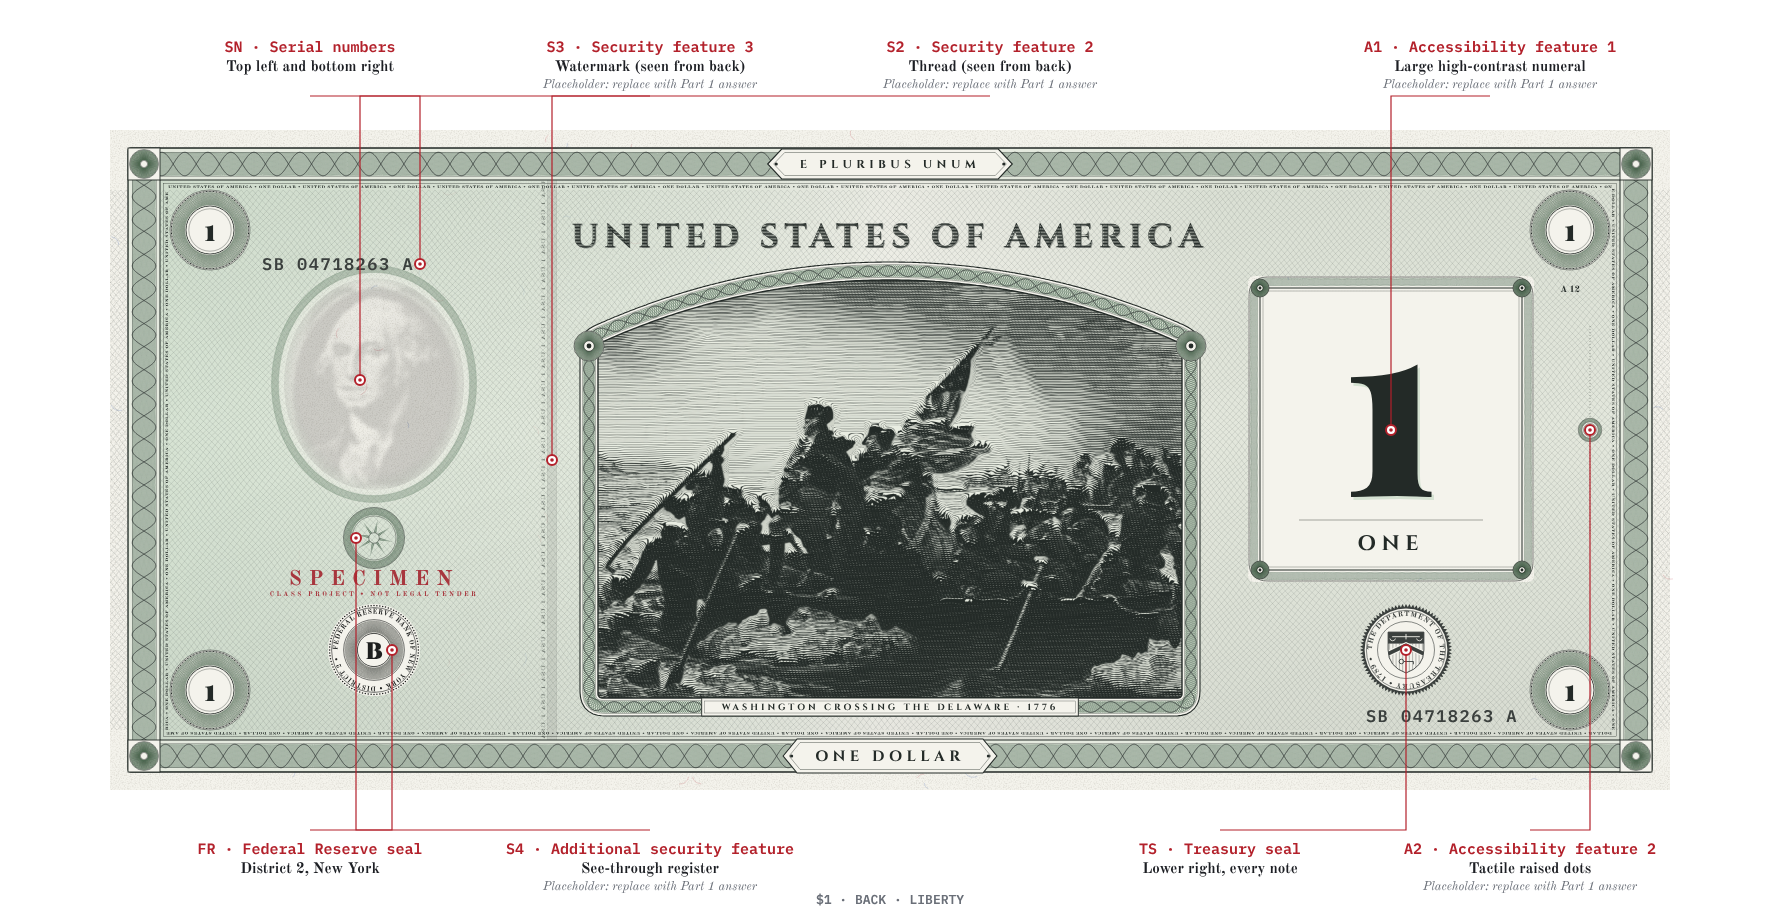
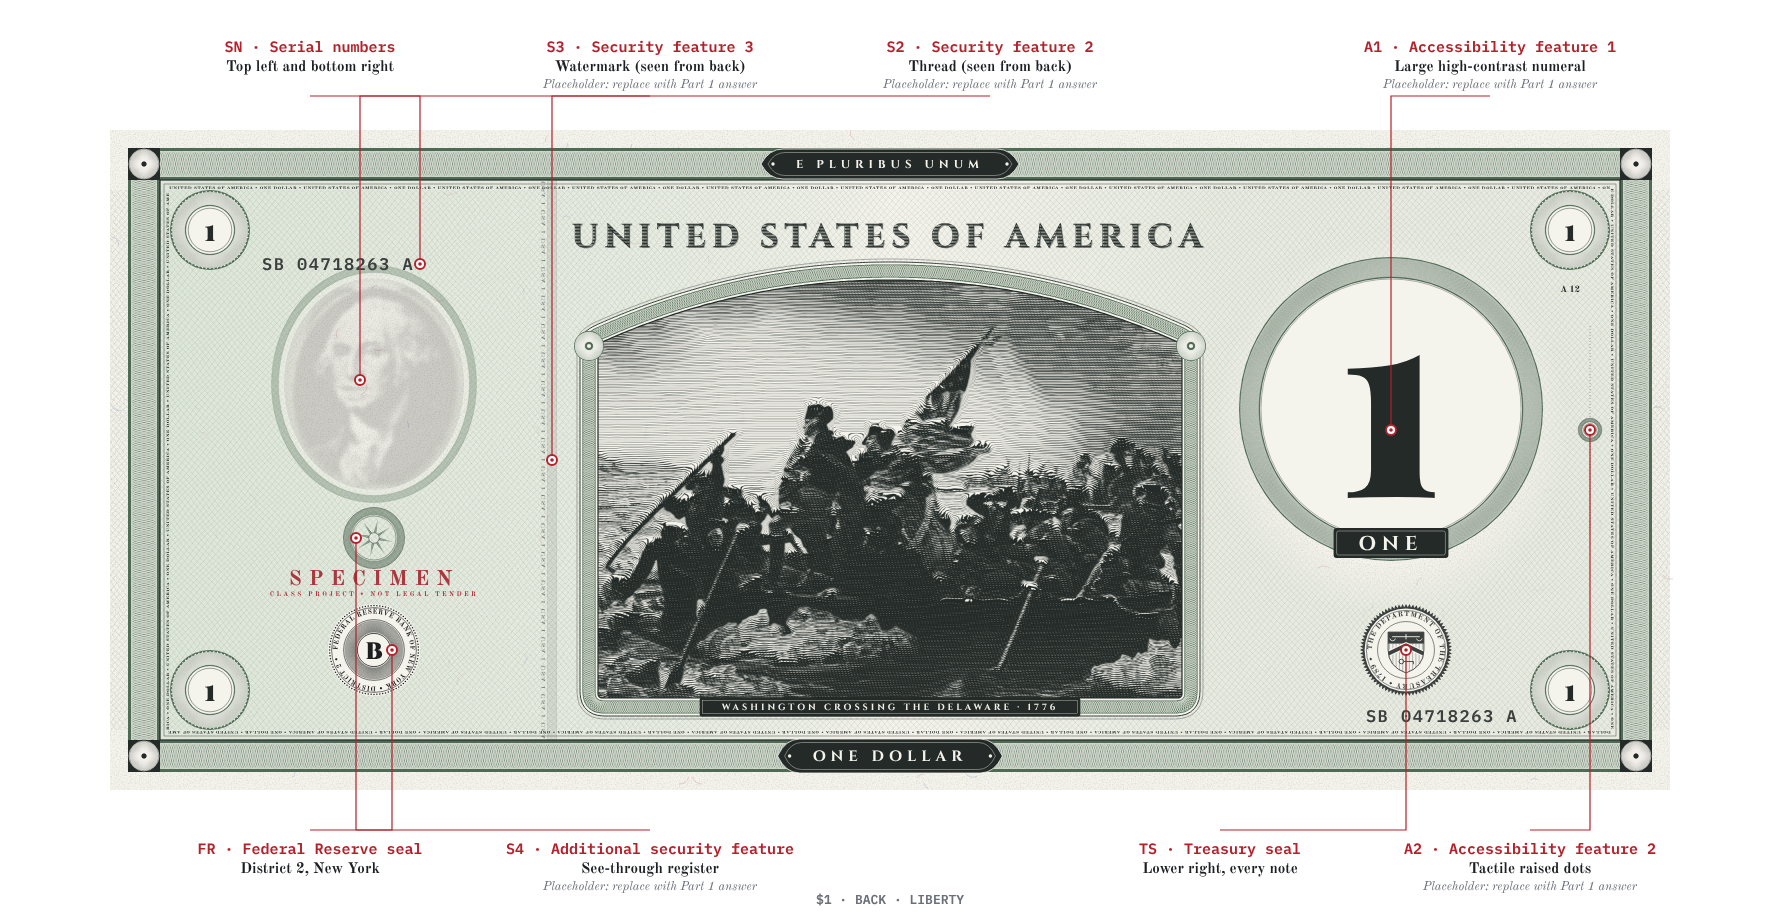
Restyle notes as white-line intaglio: dark lathe borders, rosette medallions, colour underprint; add DiCaprio $100 portrait
Claude-Session: https://claude.ai/code/session_015KBLhp8b1QN2JqUJfMzhqz

Changed region(s): [[0.0618, 0.1522, 0.927, 0.8522], [0.7416, 0.3957, 0.8034, 0.4261]]

diff --git a/generator/design/parts.js b/generator/design/parts.js
@@ -52,50 +52,51 @@ function paperLayer(n, id) {
 
 /* offset-printed tints and the denomination's fine-line security field, kept out of clear areas */
 function backgroundLayer(n, id, clearAreas) {
-  const pat = PATTERNS[n.pattern](60, 60, W - 60, H - 60, { stroke: n.secondary, sw: .3, ...n.patternOpts });
+  // offset-printed underprint: a faint colour wash and the denomination's fine-line pattern in its light ink
+  const pat = PATTERNS[n.pattern](60, 60, W - 60, H - 60, { stroke: n.primary, sw: .26, ...n.patternOpts });
   const holes = clearAreas.map(a => a.type === "ellipse"
     ? `<ellipse cx="${a.cx}" cy="${a.cy}" rx="${a.rx * 1.18}" ry="${a.ry * 1.18}" fill="url(#${id}-wmfade)"/>`
-    : `<rect x="${a.x}" y="${a.y}" width="${a.w}" height="${a.h}" rx="6" fill="#000"/>`).join("");
+    : `<ellipse cx="${a.x + a.w / 2}" cy="${a.y + a.h / 2}" rx="${a.w * .62}" ry="${a.h * .62}" fill="url(#${id}-wmfade)"/>`).join("");
   return `<mask id="${id}-bgmask"><rect width="${W}" height="${H}" fill="#fff"/>${holes}</mask>
     <g mask="url(#${id}-bgmask)">
-      <rect x="18" y="18" width="${W - 36}" height="${H - 36}" fill="url(#${id}-iris)"/>
-      <rect x="18" y="18" width="${W - 36}" height="${H - 36}" fill="url(#${id}-vfade)"/>
+      <rect x="50" y="50" width="${W - 100}" height="${H - 100}" fill="url(#${id}-iris)" opacity=".7"/>
       <g opacity=".42">${pat}</g>
     </g>`;
 }
 
 function border(n, id, topWord, bottomWord) {
+  // white-line border: the band is solid plate ink with the lathe pattern cut through it in paper colour
   const band = rectPts(34, 34, W - 34, H - 34, 10);
   const micro = `UNITED STATES OF AMERICA • ${n.words} • `.repeat(30);
-  let o = `<rect x="18" y="18" width="${W - 36}" height="${H - 36}" rx="3" fill="none" stroke="${n.plate}" stroke-width="1.3"/>`;
-  o += `<path d="${poly(rectPts(19, 19, W - 19, H - 19, 3), true)}M50 50H${W - 50}V${H - 50}H50Z" fill="${n.paper}" fill-rule="evenodd"/>`;
-  o += `<path d="${poly(rectPts(19, 19, W - 19, H - 19, 3), true)}M50 50H${W - 50}V${H - 50}H50Z" fill="${n.tint1}" fill-rule="evenodd" opacity=".5"/>`;
-  o += latheBand(band, { w: 25, wave: 15, count: 7, stroke: n.primary, sw: .26 });
-  o += latheBand(band, { w: 25, wave: 46, count: 2, stroke: n.secondary, sw: .45 });
-  o += `<path d="${poly(rectPts(22.5, 22.5, W - 22.5, H - 22.5, 1), true)}M46.5 46.5H${W - 46.5}V${H - 46.5}H46.5Z" fill="none" stroke="${n.plate}" stroke-width=".3"/>`;
-  o += `<rect x="50" y="50" width="${W - 100}" height="${H - 100}" fill="none" stroke="${n.plate}" stroke-width="1"/>`;
-  o += `<rect x="53.6" y="53.6" width="${W - 107.2}" height="${H - 107.2}" fill="none" stroke="${n.plate}" stroke-width=".35"/>`;
-  o += `<path id="${id}-mp" d="M58 58H${W - 58}V${H - 58}H58Z" fill="none"/>
-    <text font-family="${FONT.small}" font-size="3.4" font-weight="700" fill="${n.plate}" letter-spacing=".2"><textPath href="#${id}-mp" textLength="${2 * (W - 116) + 2 * (H - 116) - 4}" lengthAdjust="spacingAndGlyphs">${micro.slice(0, 1180)}</textPath></text>`;
-  // corner blocks
+  const ring = `${poly(rectPts(18, 18, W - 18, H - 18, 3), true)}M50 50H${W - 50}V${H - 50}H50Z`;
+  let o = `<path d="${ring}" fill="${n.primary}" fill-rule="evenodd"/>`;
+  o += latheBand(band, { w: 26, wave: 14, count: 8, stroke: n.paper, sw: .42 });
+  o += `<g opacity=".55">${latheBand(band, { w: 26, wave: 52, count: 3, stroke: n.tint1, sw: .6 })}</g>`;
+  o += `<path d="${poly(rectPts(21.5, 21.5, W - 21.5, H - 21.5, 1), true)}M46.5 46.5H${W - 46.5}V${H - 46.5}H46.5Z" fill="none" stroke="${n.paper}" stroke-width=".7"/>`;
+  o += `<rect x="50" y="50" width="${W - 100}" height="${H - 100}" fill="none" stroke="${n.plate}" stroke-width="1.2"/>`;
+  o += `<rect x="54" y="54" width="${W - 108}" height="${H - 108}" fill="none" stroke="${n.plate}" stroke-width=".4"/>`;
+  o += `<path id="${id}-mp" d="M59 59H${W - 59}V${H - 59}H59Z" fill="none"/>
+    <text font-family="${FONT.small}" font-size="3.4" font-weight="700" fill="${n.plate}" letter-spacing=".2"><textPath href="#${id}-mp" textLength="${2 * (W - 118) + 2 * (H - 118) - 4}" lengthAdjust="spacingAndGlyphs">${micro.slice(0, 1180)}</textPath></text>`;
   for (const [x, y] of [[18, 18], [W - 50, 18], [18, H - 50], [W - 50, H - 50]]) {
-    o += `<rect x="${x}" y="${y}" width="32" height="32" fill="${n.paper}" stroke="${n.plate}" stroke-width=".9"/>`;
-    o += rosetteRing(x + 16, y + 16, 4, 14, { lobes: 12, count: 8, stroke: n.primary, sw: .28 });
-    o += rings(x + 16, y + 16, [14.5, 3.6], n.plate, .5);
+    o += `<rect x="${x}" y="${y}" width="32" height="32" fill="${n.plate}"/>`;
+    o += rosetteRing(x + 16, y + 16, 3, 14.5, { lobes: 12, count: 8, stroke: n.paper, sw: .38 });
+    o += rings(x + 16, y + 16, [15, 3], n.paper, .6);
   }
-  o += cartouche(n, W / 2, 34, topWord, `600 11.5px ${FONT.caps}`, 4.5, 15);
-  o += cartouche(n, W / 2, H - 34, bottomWord, `700 15px ${FONT.caps}`, 4.5, 17);
+  o += cartouche(n, W / 2, 34, topWord, `700 11.5px ${FONT.caps}`, 5, 15);
+  o += cartouche(n, W / 2, H - 34, bottomWord, `700 15px ${FONT.caps}`, 5, 17);
   return o;
 }
+
 function cartouche(n, cx, cy, text, font, ls, h) {
-  const w = measure(text, font, ls) + 64;
+  // a darker tablet let into the border, lettered in paper colour
+  const w = measure(text, font, ls) + 70;
   const x0 = cx - w / 2, x1 = cx + w / 2;
-  const shape = `M${f(x0)} ${cy}L${f(x0 + 14)} ${cy - h}H${f(x1 - 14)}L${f(x1)} ${cy}L${f(x1 - 14)} ${cy + h}H${f(x0 + 14)}Z`;
-  const inner = `M${f(x0 + 6)} ${cy}L${f(x0 + 17)} ${cy - h + 3.5}H${f(x1 - 17)}L${f(x1 - 6)} ${cy}L${f(x1 - 17)} ${cy + h - 3.5}H${f(x0 + 17)}Z`;
-  return `<path d="${shape}" fill="${n.paper}" stroke="${n.plate}" stroke-width="1.1"/>
-    <path d="${inner}" fill="none" stroke="${n.plate}" stroke-width=".4"/>
-    ${beads(x0 + 8.5, cy, 0, 1, 1.6, n.plate)}${beads(x1 - 8.5, cy, 0, 1, 1.6, n.plate)}
-    <text x="${cx}" y="${cy + parseFloat(font.match(/(\d+(\.\d+)?)px/)[1]) * .36}" text-anchor="middle" style="font:${font};letter-spacing:${ls}px" fill="${n.plate}">${esc(text)}</text>`;
+  const shape = `M${f(x0)} ${cy}Q${f(x0 + 8)} ${cy - h} ${f(x0 + 22)} ${cy - h}H${f(x1 - 22)}Q${f(x1 - 8)} ${cy - h} ${f(x1)} ${cy}Q${f(x1 - 8)} ${cy + h} ${f(x1 - 22)} ${cy + h}H${f(x0 + 22)}Q${f(x0 + 8)} ${cy + h} ${f(x0)} ${cy}Z`;
+  const inner = `M${f(x0 + 7)} ${cy}Q${f(x0 + 13)} ${cy - h + 3.5} ${f(x0 + 24)} ${cy - h + 3.5}H${f(x1 - 24)}Q${f(x1 - 13)} ${cy - h + 3.5} ${f(x1 - 7)} ${cy}Q${f(x1 - 13)} ${cy + h - 3.5} ${f(x1 - 24)} ${cy + h - 3.5}H${f(x0 + 24)}Q${f(x0 + 13)} ${cy + h - 3.5} ${f(x0 + 7)} ${cy}Z`;
+  return `<path d="${shape}" fill="${n.plate}" stroke="${n.paper}" stroke-width=".8"/>
+    <path d="${inner}" fill="none" stroke="${n.paper}" stroke-width=".4"/>
+    ${beads(x0 + 12, cy, 0, 1, 1.7, n.paper)}${beads(x1 - 12, cy, 0, 1, 1.7, n.paper)}
+    <text x="${cx}" y="${cy + parseFloat(font.match(/(\d+(\.\d+)?)px/)[1]) * .36}" text-anchor="middle" style="font:${font};letter-spacing:${ls}px" fill="${n.paper}">${esc(text)}</text>`;
 }
 
 /* shaded engraved lettering: line-hatched fill, hairline outline, offset shadow */
@@ -117,57 +118,58 @@ function measure(text, font, ls = 0) {
 function numeralSize(s, box) { return s.length === 1 ? box * 1.25 : s.length === 2 ? box * .95 : box * .68; }
 
 function cornerMedallion(n, cx, cy, r) {
+  // dark white-line rosette ring round a light counter carrying the numeral
   const s = String(n.v);
-  return `<circle cx="${cx}" cy="${cy}" r="${r}" fill="${n.paper}"/>
-    ${rosetteRing(cx, cy, r * .62, r * .95, { lobes: 22, count: 8, stroke: n.primary, sw: .24 })}
-    ${beads(cx, cy, r - 1.4, 72, .55, n.plate)}
-    ${rings(cx, cy, [r, r * .97], n.plate, .5)}${rings(cx, cy, [r * .6], n.plate, .9)}
-    <circle cx="${cx}" cy="${cy}" r="${r * .58}" fill="${n.paper}"/>
-    ${rings(cx, cy, [r * .53], n.plate, .35)}
-    ${plainText(s, cx, cy + numeralSize(s, r * .6) * .35, `900 ${f(numeralSize(s, r * .6))}px ${FONT.num}`, n.plate)}`;
+  const inner = r * .6;
+  const fs = numeralSize(s, inner);
+  return `<circle cx="${cx}" cy="${cy}" r="${r}" fill="${n.primary}"/>
+    ${rosetteRing(cx, cy, inner + 1, r - 2, { lobes: 22, count: 9, stroke: n.paper, sw: .38 })}
+    ${beads(cx, cy, r - 1.6, 64, .7, n.paper)}
+    <circle cx="${cx}" cy="${cy}" r="${inner}" fill="${n.paper}"/>
+    ${rings(cx, cy, [inner - 2.2], n.plate, .45)}
+    ${plainText(s, cx, cy + fs * .35, `900 ${f(fs)}px ${FONT.num}`, n.plate)}`;
 }
 
 /* the front's large high-contrast numeral (placeholder A1), set in a layered lathe medallion */
 function bigMedallion(n, id, cx, cy, R) {
+  // large numeral (placeholder A1): dark lace rosette, light counter, solid plate-ink numeral for maximum contrast
   const s = String(n.v);
-  const disc = R * .55;
-  let o = `<circle cx="${cx}" cy="${cy}" r="${R}" fill="${n.paper}" opacity=".7"/>`;
-  o += beads(cx, cy, R - 1.5, 150, .9, n.plate);
-  o += rosetteRing(cx, cy, R * .82, R * .985, { lobes: 54, count: 14, stroke: n.primary, sw: .28 });
-  o += rings(cx, cy, [R * .815, R * .8], n.plate, .45);
-  o += rosetteRing(cx, cy, disc + 2, R * .79, { lobes: 30, count: 22, stroke: n.secondary, sw: .26 });
-  o += rosetteRing(cx, cy, disc + 6, R * .7, { lobes: 15, count: 10, stroke: n.primary, sw: .3, families: 1 });
+  const disc = R * .58;
+  let o = `<circle cx="${cx}" cy="${cy}" r="${R}" fill="${n.primary}"/>`;
+  o += rosetteRing(cx, cy, R * .84, R * .985, { lobes: 60, count: 9, stroke: n.paper, sw: .4 });
+  o += rings(cx, cy, [R * .83], n.paper, .8);
+  o += rosetteRing(cx, cy, disc + 3, R * .81, { lobes: 32, count: 14, stroke: n.paper, sw: .36 });
+  o += `<g opacity=".6">${rosetteRing(cx, cy, disc + 3, R * .81, { lobes: 16, count: 4, stroke: n.tint1, sw: .5, families: 1 })}</g>`;
+  o += beads(cx, cy, R - 1.8, 160, .9, n.paper);
   o += `<circle cx="${cx}" cy="${cy}" r="${disc}" fill="${n.paper}"/>`;
-  o += rings(cx, cy, [disc, disc - 3], n.plate, 1) + rings(cx, cy, [disc - 5], n.plate, .3);
-  const fs = s.length === 1 ? disc * 1.55 : s.length === 2 ? disc * 1.2 : disc * .86;
+  o += `<g opacity=".35">${rosetteRing(cx, cy, disc * .35, disc - 4, { lobes: 40, count: 8, stroke: n.primary, sw: .22 })}</g>`;
+  o += rings(cx, cy, [disc - 3], n.plate, .6);
+  const fs = s.length === 1 ? disc * 1.5 : s.length === 2 ? disc * 1.16 : disc * .84;
   o += plainText(s, cx, cy + fs * .28, `900 ${f(fs)}px ${FONT.num}`, n.plate);
-  o += `<path id="${id}-mw" d="M${cx - disc + 11} ${cy} A${disc - 11} ${disc - 11} 0 0 0 ${cx + disc - 11} ${cy}" fill="none"/>
+  o += `<path id="${id}-mw" d="M${cx - disc + 12} ${cy} A${disc - 12} ${disc - 12} 0 0 0 ${cx + disc - 12} ${cy}" fill="none"/>
     <text style="font:700 8.5px ${FONT.caps};letter-spacing:3px" fill="${n.plate}" text-anchor="middle"><textPath href="#${id}-mw" startOffset="50%">${n.word1}</textPath></text>`;
   return o;
 }
 
 /* arched vignette window with a triple frame */
 function vignetteFrame(n, id, box, img, caption, overlay = "") {
+  // arched window: hairline, dark white-line lathe band, hairline, outer rule
   const { x0, y0, x1, y1, ys } = box;
   const inner = archPts(x0, y0, x1, y1, ys, 4);
   const mid = offsetPts(inner, 9), outer = offsetPts(inner, 18);
   let o = `<clipPath id="${id}-arch"><path d="${poly(inner, true)}"/></clipPath>`;
   o += `<path d="${poly(outer, true)}" fill="${n.paper}"/>`;
   o += `<g clip-path="url(#${id}-arch)"><rect x="${x0}" y="${y0}" width="${x1 - x0}" height="${y1 - y0}" fill="${n.paper}"/>
-        <rect x="${x0}" y="${y0}" width="${x1 - x0}" height="${y1 - y0}" fill="${n.tint1}" opacity=".35"/>
         <image href="${img}" x="${x0}" y="${y0}" width="${x1 - x0}" height="${y1 - y0}" preserveAspectRatio="none"/>${overlay}</g>`;
-  o += `<path d="${poly(offsetPts(inner, 15.4), true)}${poly(offsetPts(inner, 2.6), true).replace("M", "M")}" fill="${n.tint1}" fill-rule="evenodd" opacity=".6"/>`;
-  o += latheBand(mid, { w: 11.5, wave: 12, count: 6, stroke: n.primary, sw: .3 });
-  o += latheBand(mid, { w: 11.5, wave: 40, count: 2, stroke: n.secondary, sw: .45 });
-  o += `<path d="${poly(inner, true)}" fill="none" stroke="${n.plate}" stroke-width="1.4"/>`;
-  o += `<path d="${poly(offsetPts(inner, 2.6), true)}" fill="none" stroke="${n.plate}" stroke-width=".35"/>`;
-  o += `<path d="${poly(offsetPts(inner, 15.4), true)}" fill="none" stroke="${n.plate}" stroke-width=".35"/>`;
-  o += `<path d="${poly(outer, true)}" fill="none" stroke="${n.plate}" stroke-width="1.1"/>`;
-  // caption tablet across the bottom of the frame
-  const font = `700 9px ${FONT.caps}`, w = measure(caption, font, 3) + 40, cx = (x0 + x1) / 2, cy = y1 + 9;
-  o += `<rect x="${f(cx - w / 2)}" y="${cy - 9}" width="${f(w)}" height="18" fill="${n.paper}" stroke="${n.plate}" stroke-width=".9"/>
-        <rect x="${f(cx - w / 2 + 3)}" y="${cy - 6}" width="${f(w - 6)}" height="12" fill="none" stroke="${n.plate}" stroke-width=".3"/>`;
-  o += plainText(caption, cx, cy + 3.2, font, n.plate, { ls: 3 });
+  o += `<path d="${poly(offsetPts(inner, 15.6), true)}${poly(offsetPts(inner, 2.4), true)}" fill="${n.primary}" fill-rule="evenodd"/>`;
+  o += latheBand(mid, { w: 12, wave: 11, count: 6, stroke: n.paper, sw: .36 });
+  o += `<path d="${poly(inner, true)}" fill="none" stroke="${n.plate}" stroke-width="1.2"/>`;
+  o += `<path d="${poly(outer, true)}" fill="none" stroke="${n.plate}" stroke-width=".9"/>`;
+  o += `<path d="${poly(offsetPts(inner, 21), true)}" fill="none" stroke="${n.plate}" stroke-width=".35"/>`;
+  const font = `700 9px ${FONT.caps}`, w = measure(caption, font, 3) + 44, cx = (x0 + x1) / 2, cy = y1 + 9;
+  o += `<rect x="${f(cx - w / 2)}" y="${cy - 9.5}" width="${f(w)}" height="19" rx="2" fill="${n.plate}"/>
+        <rect x="${f(cx - w / 2 + 3)}" y="${cy - 6.5}" width="${f(w - 6)}" height="13" fill="none" stroke="${n.paper}" stroke-width=".35"/>`;
+  o += plainText(caption, cx, cy + 3.2, font, n.paper, { ls: 3 });
   return o;
 }
 
@@ -223,10 +225,11 @@ function register(n, cx, cy, r, back) {
 }
 /* small rosette used where frames meet */
 function knot(n, cx, cy, r) {
-  return `<circle cx="${cx}" cy="${cy}" r="${r}" fill="${n.paper}"/>` +
-    rosetteRing(cx, cy, r * .35, r * .97, { lobes: 14, count: 7, stroke: n.primary, sw: .25 }) +
-    rings(cx, cy, [r, r * .35], n.plate, .6) + `<circle cx="${cx}" cy="${cy}" r="${r * .16}" fill="${n.plate}"/>`;
+  return `<circle cx="${cx}" cy="${cy}" r="${r}" fill="${n.primary}"/>` +
+    rosetteRing(cx, cy, r * .3, r * .95, { lobes: 14, count: 7, stroke: n.paper, sw: .34 }) +
+    rings(cx, cy, [r * .3], n.paper, .6) + `<circle cx="${cx}" cy="${cy}" r="${r * .14}" fill="${n.paper}"/>`;
 }
+
 /* faint lathe field printed behind a panel to give it depth */
 function panelField(n, cx, cy, R) {
   return `<g opacity=".3">${rosetteRing(cx, cy, R * .74, R, { lobes: 64, count: 10, stroke: n.primary, sw: .2 })}</g>`;
@@ -284,18 +287,15 @@ function specimen(n, x, y) {
 }
 
 function numeralPanel(n, id, p, s, word) {
-  const pts = rectPts(p.x, p.y, p.x + p.w, p.y + p.h, 6);
-  let o = `<rect x="${p.x - 8}" y="${p.y - 8}" width="${p.w + 16}" height="${p.h + 16}" rx="10" fill="${n.paper}"/>`;
-  o += latheBand(offsetPts(pts, 6), { w: 8, wave: 11, count: 5, stroke: n.primary, sw: .26 });
-  o += `<path d="${poly(pts, true)}" fill="${n.paper}" stroke="${n.plate}" stroke-width="1"/>`;
-  o += `<path d="${poly(offsetPts(pts, 11), true)}" fill="none" stroke="${n.plate}" stroke-width=".6"/>`;
-  o += `<path d="${poly(offsetPts(pts, -3), true)}" fill="none" stroke="${n.plate}" stroke-width=".3"/>`;
-  for (const [x, y] of [[p.x, p.y], [p.x + p.w, p.y], [p.x, p.y + p.h], [p.x + p.w, p.y + p.h]]) o += knot(n, x, y, 9);
-  const fs = s.length === 1 ? 250 : s.length === 2 ? 186 : 128;
-  const cx = p.x + p.w / 2;
-  o += plainText(s, cx + 2.5, p.y + 212, `900 ${fs}px ${FONT.num}`, n.tint1);
-  o += plainText(s, cx, p.y + 209, `900 ${fs}px ${FONT.num}`, n.plate);
-  o += `<path d="M${cx - 92} ${p.y + 232}H${cx + 92}" stroke="${n.plate}" stroke-width=".4"/>`;
-  o += plainText(word, cx, p.y + 262, `700 21px ${FONT.caps}`, n.plate, { ls: 6 });
+  // the back's high-contrast numeral (A1): solid plate ink on clear paper, no box, framed by lathe scrolls
+  const cx = p.x + p.w / 2, cy = p.y + p.h / 2;
+  const fs = s.length === 1 ? 270 : s.length === 2 ? 196 : 136;
+  let o = `<circle cx="${cx}" cy="${cy - 20}" r="${p.w * .58}" fill="${n.primary}"/><circle cx="${cx}" cy="${cy - 20}" r="${p.w * .5}" fill="${n.paper}"/>${rosetteRing(cx, cy - 20, p.w * .5 + 1, p.w * .58 - 1, { lobes: 70, count: 7, stroke: n.paper, sw: .38 })}`;
+  o += rings(cx, cy - 20, [p.w * .5 - 1], n.plate, .35);
+  o += plainText(s, cx, p.y + 210, `900 ${fs}px ${FONT.num}`, n.plate);
+  const font = `700 20px ${FONT.caps}`, w = measure(word, font, 6) + 50;
+  o += `<rect x="${f(cx - w / 2)}" y="${p.y + 240}" width="${f(w)}" height="30" rx="3" fill="${n.plate}"/>`;
+  o += `<rect x="${f(cx - w / 2 + 3)}" y="${p.y + 243}" width="${f(w - 6)}" height="24" rx="2" fill="none" stroke="${n.paper}" stroke-width=".4"/>`;
+  o += plainText(word, cx, p.y + 262, font, n.paper, { ls: 6 });
   return o;
 }

diff --git a/generator/design/notes.js b/generator/design/notes.js
@@ -29,7 +29,7 @@ const DENOMS = {
        plate: "#141b30", primary: "#23345f", secondary: "#8e99a8", tint1: "#d7dceb", tint2: "#e4e7ec", paper: "#f3f3f1",
        pattern: "flow", patternOpts: { gap: 5 }, serialInk: "#2f4a78", sealColor: "#5d6878", ovi: ["#5e3a1c", "#b88c52", "#6e8f86", "#26505f"],
        sealInk: "#15171d", district: 11, letter: "K", city: "DALLAS", serial: "SK 85219406 F", plateNo: "E 2", check: "K 8",
-       thread: 452, dots: 6, front: { scene: "hundred-front", caption: "THE GOLDEN GATE" }, back: { scene: "hundred-back", caption: "ACROSS THE STRAIT" } },
+       thread: 452, dots: 6, front: { scene: "hundred-front", caption: "JORDAN BELFORT \u00b7 THE WOLF OF WALL STREET" }, back: { scene: "hundred-back", caption: "ACROSS THE STRAIT" } },
 };
 const SIGS = [["Eleanor Whitcombe", "Treasurer of the United States"], ["James T. Okafor", "Secretary of the Treasury"]];
 

diff --git a/generator/portraits/prep.py b/generator/portraits/prep.py
@@ -94,6 +94,7 @@ outputs = {
     "one-back": scene("delaware.png", (380, 0, 422)),
     "five-front": person("hill.png", (178, 72, 245)),
     "ten-front": person("jobs.png", (180, 0, 330), not_white=True),
+    "hundred-front": person("dicaprio.png", (229, 140, 330), keep_x=(110, 340)),
     "fifty-front": person("drake.png", (365, 0, 400), dark_in=[(300, 185), (250, 210), (228, 300), (222, 452), (482, 452), (472, 300), (452, 210), (405, 185)], keep_x=(215, 495)),
 }
 for k, im in outputs.items():
